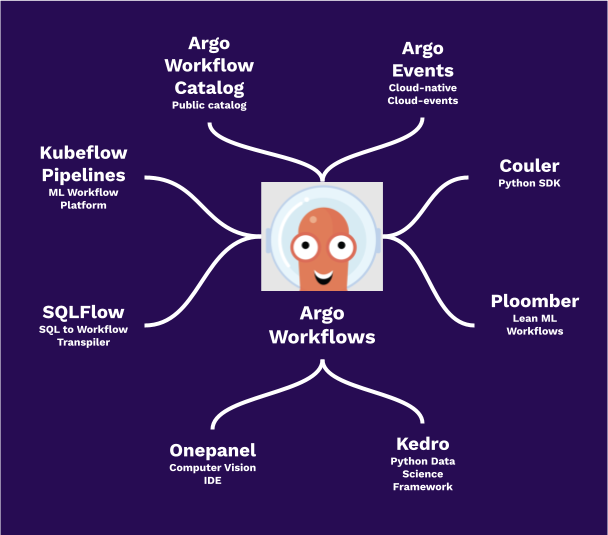
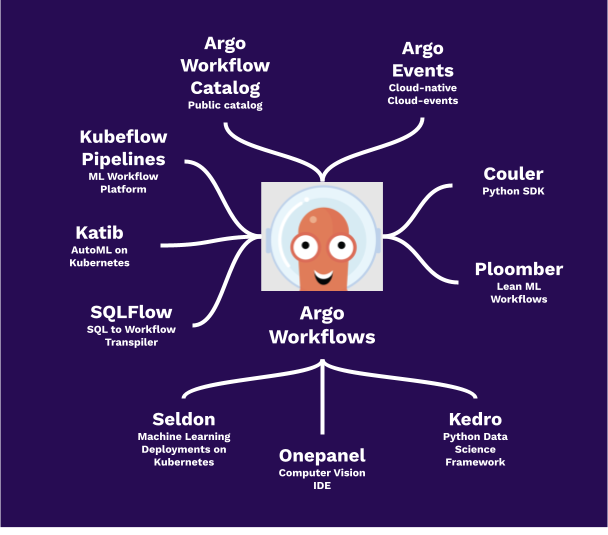
docs: Update ecosystem section

diff --git a/README.md b/README.md
@@ -53,13 +53,20 @@ Argo is a [Cloud Native Computing Foundation (CNCF)](https://cncf.io/) hosted pr
 |
 [Couler](https://github.com/couler-proj/couler)
 |
-[OnePanel](https://www.onepanel.ai/)
+[Katib](https://github.com/kubeflow/katib)
+|
+[Kedro](https://kedro.readthedocs.io/en/stable/)
+|
+[Kubeflow Pipelines](https://github.com/kubeflow/pipelines)
+|
+[Onepanel](https://www.onepanel.ai/)
 |
 [Ploomber](https://github.com/ploomber/ploomber)
 |
-[SQLFlow](https://github.com/sql-machine-learning/sqlflow)
+[Seldon](https://github.com/SeldonIO/seldon-core)
 |
-[Kubeflow Pipelines](https://github.com/kubeflow/pipelines)
+[SQLFlow](https://github.com/sql-machine-learning/sqlflow)
+
 
 ## SDKs
 
